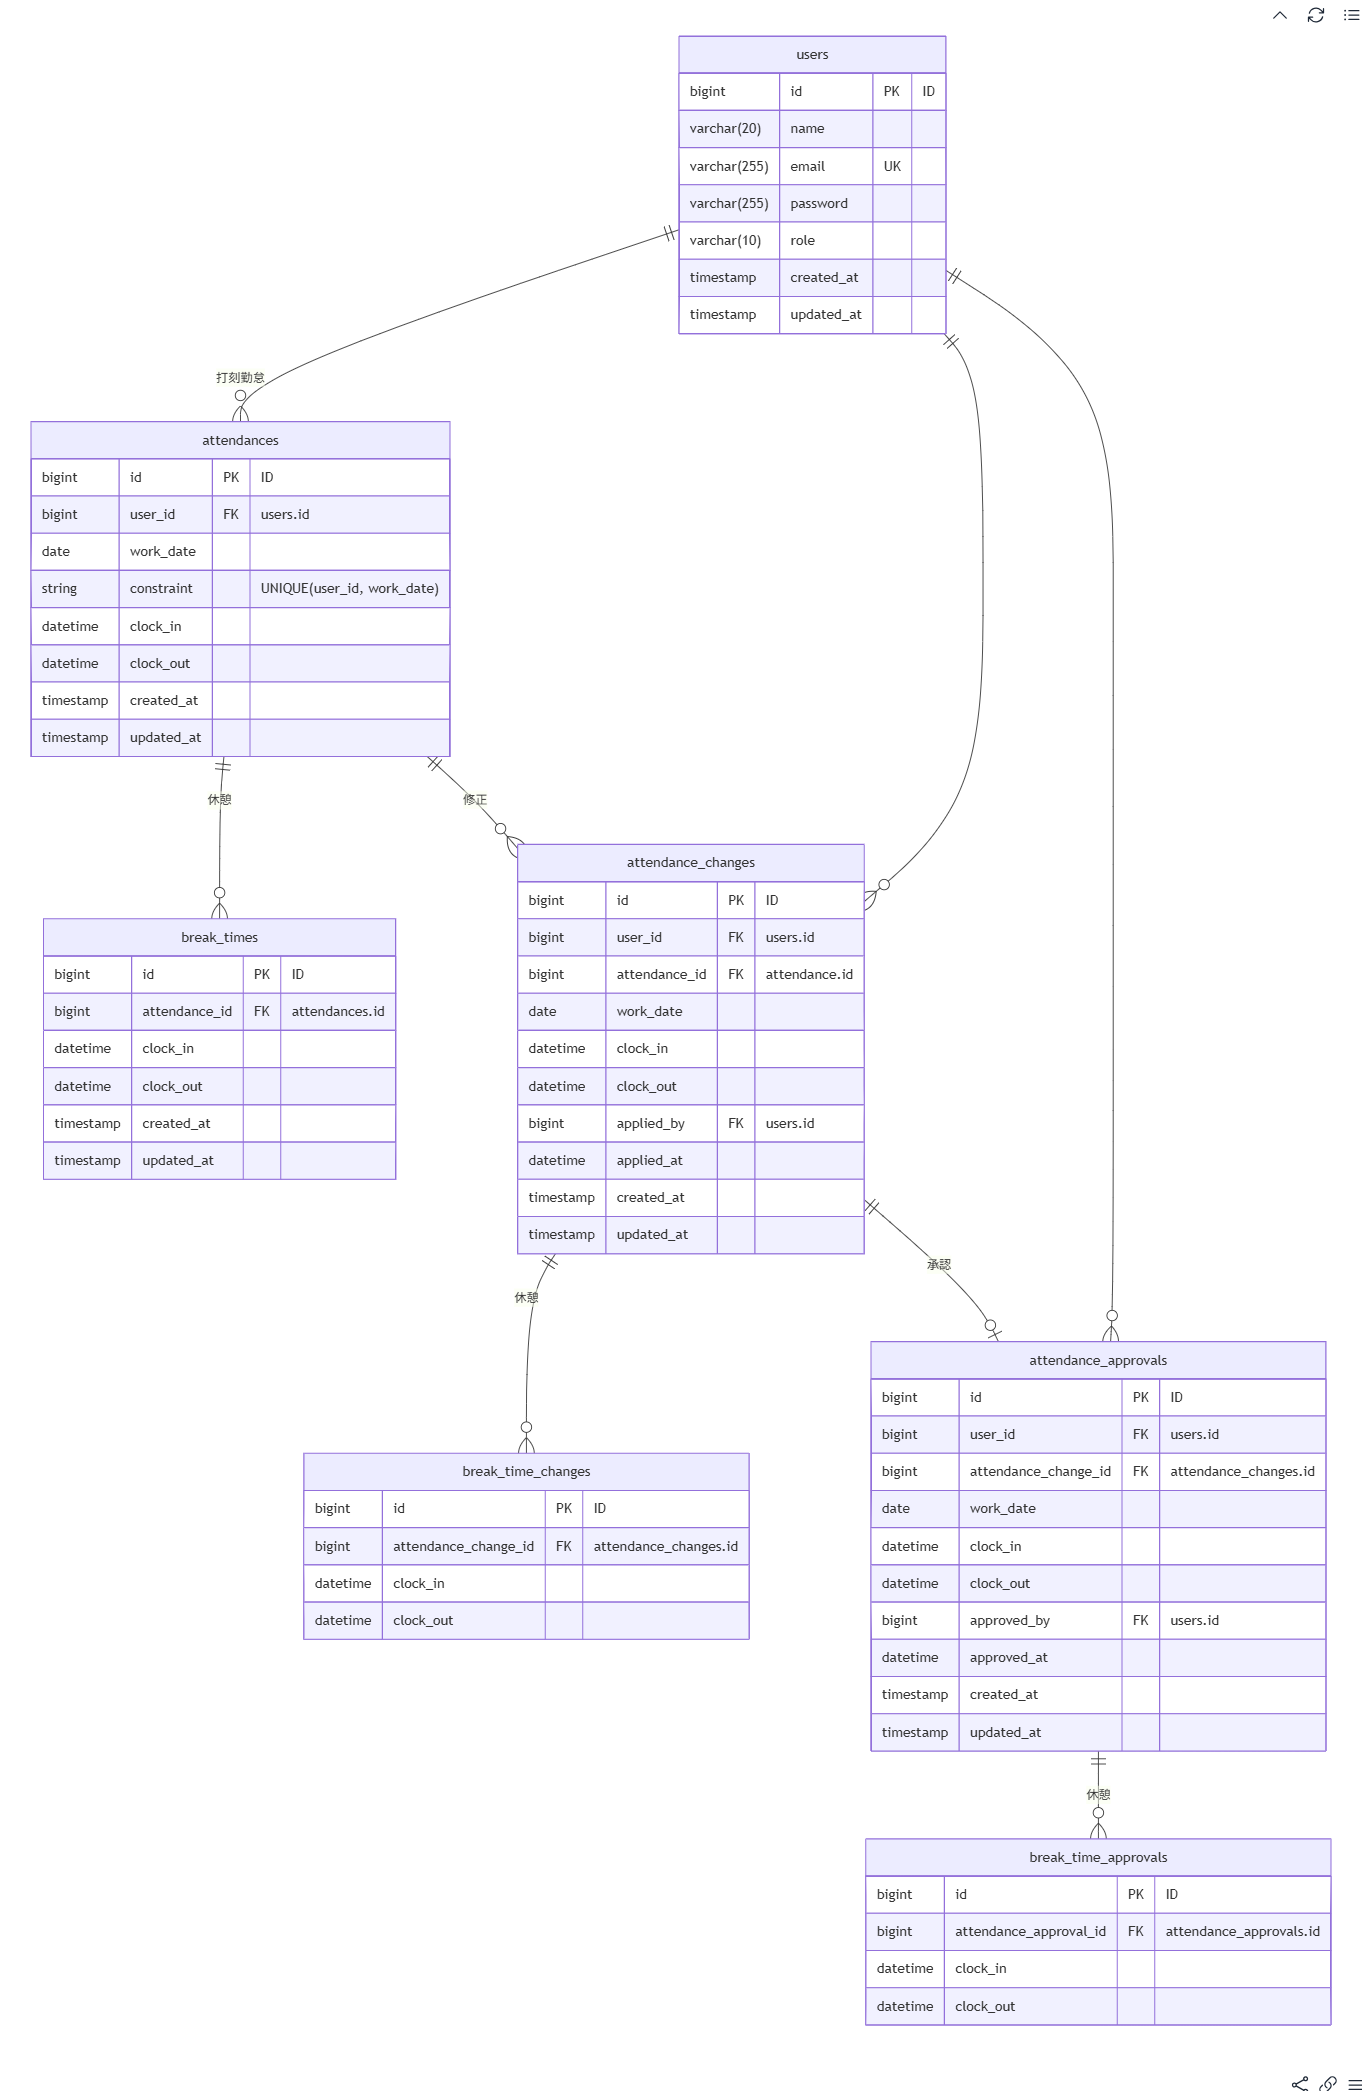
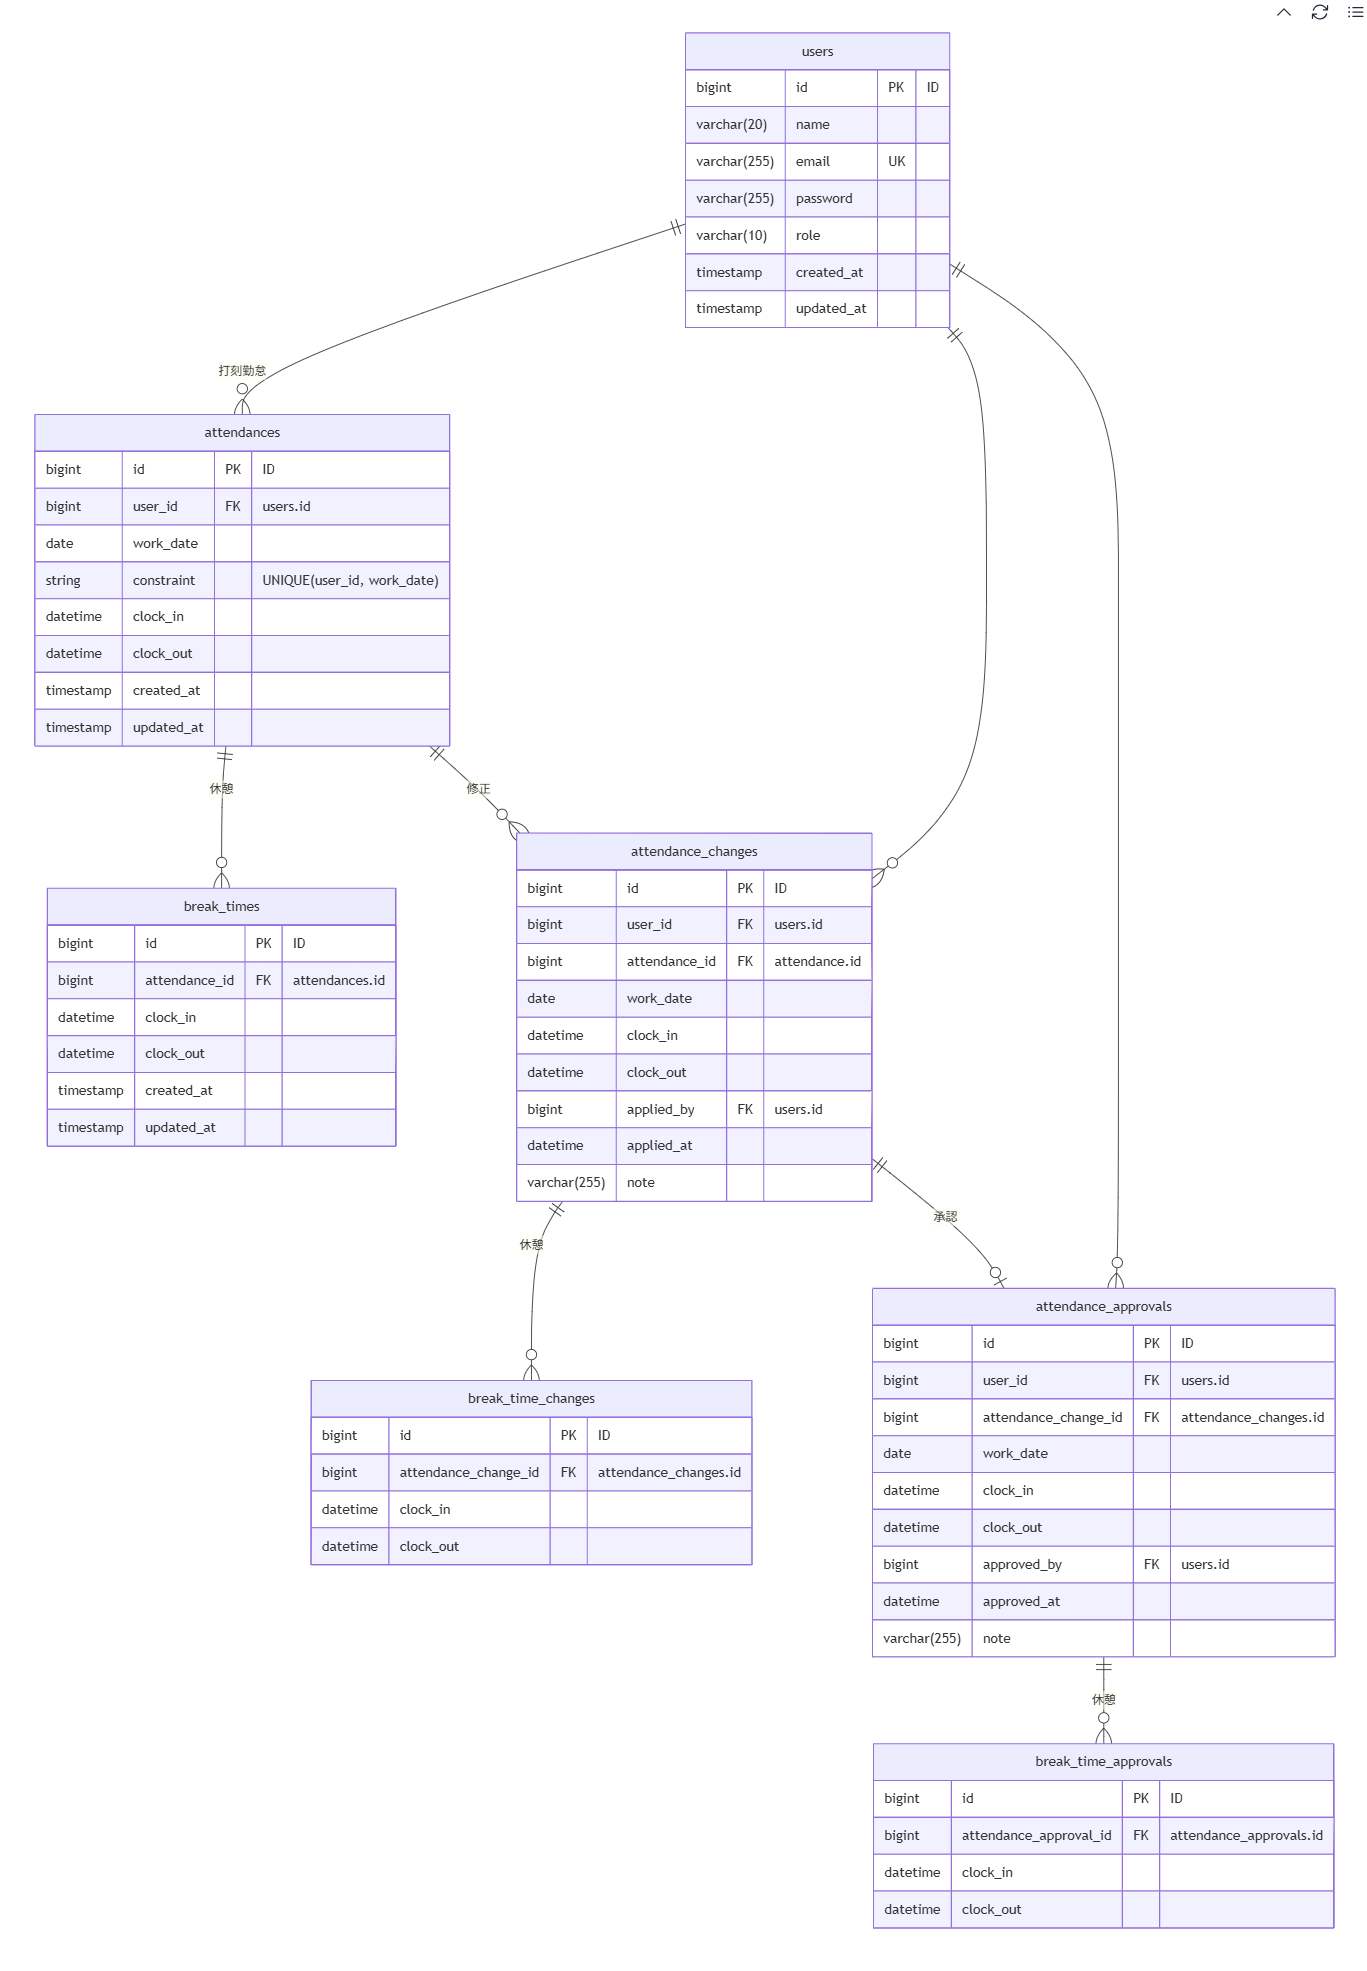
修正：ER図

diff --git a/README.md b/README.md
@@ -1,17 +1,17 @@
 # 勤怠管理アプリ
 
-**主な機能**
+### 主な機能
 
-**>一般会員**
-* ユーザー登録・ログイン機能(メール認証付き)・ログアウト機能
+**一般会員**
+* ユーザー登録・ログイン機能(メール認証付き)
 * 勤怠打刻機能
 * 勤怠詳細表示
 * 勤怠修正機能（修正申請機能付き）
-* 勤怠一覧表示
+* 勤怠一覧表示（月毎）
 * 申請勤怠一覧表示（承認待ち・承認済み）
 
-**>管理者**
-* ログイン機能・ログアウト機能
+**管理者**
+* ログイン機能
 * 勤怠一覧表示（日/ユーザー毎）
 * 勤怠詳細表示
 * 勤怠修正機能

diff --git a/erd.md b/erd.md
@@ -49,8 +49,7 @@ erDiagram
         datetime clock_out
         bigint applied_by FK "users.id"
         datetime applied_at
-        timestamp created_at
-        timestamp updated_at
+        varchar(255) note
     }
 
      attendance_changes ||--o{ break_time_changes : "休憩"
@@ -73,8 +72,7 @@ erDiagram
         datetime clock_out
         bigint approved_by FK "users.id"
         datetime approved_at
-        timestamp created_at
-        timestamp updated_at
+        varchar(255) note
     }
 
     attendance_approvals ||--o{ break_time_approvals : "休憩"
